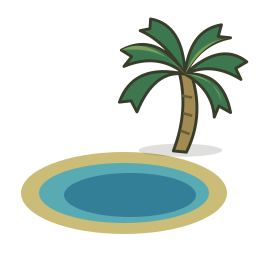
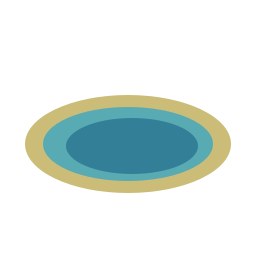
Clarify vegetation states and record cartographic validation

diff --git a/Assets/_Anthropocene/Scripts/Runtime/Presentation/OpeningGame.cs b/Assets/_Anthropocene/Scripts/Runtime/Presentation/OpeningGame.cs
@@ -470,7 +470,7 @@ namespace Anthropocene.Presentation
             Fill(r, new Color(.12f, .14f, .12f));
             GUI.Label(new Rect(r.x + 20, r.y + 15, width - 40, 38), "READING THE LAND", title);
             string helpText =
-                "Tent: camp (gold yours, red rival). Spear: hunters.\nHoofed silhouette: wild herd; tether badge: domestic herd.\nGround shows climate; grass, shrubs and trees show vegetation density.\nMerged contours: elevation 1-10; shared edges at equal height disappear; X Impassable peak; o Oasis; w Freshwater\nRivers follow tile edges. Sea tiles contain undrinkable saltwater.\n\nDots beneath symbols show food from Depleted (one) to Abundant (five). Select a tile for food, water and renewal bands.\n\nClick a unit slot or roster entry to select that exact unit. The selected slot has a gold frame. M or right-click enters movement planning: green tiles are valid this generation, a thick line previews the route, and red means the pointed tile is unavailable. Established hunter groups automatically hunt any wild herd sharing their final tile; fishing targets are blue.\n\nEach unit can queue one order. A new order for that unit replaces its previous order; Backspace or the Cancel button removes it. Gold paths and Q badges are committed previews. Enter resolves every queued order simultaneously. Units without orders hold position; camp gathering is automatic.\n\nD dispatches hunters. A dispatched group appears at camp after resolution and can first receive orders next generation. R reintegrates hunters already at their source camp. Escape leaves targeting without changing queued orders.\n\nWheel zooms; middle-drag or arrows pan; C centers camp.\nHunter tethers preview the planned camp connection: green is supplied, amber crosses unknown terrain, and red will be disconnected. Hunters outside supply forage locally for subsistence before consuming carried provisions. Return to deposit surplus food. V switches tilesets. Hold still on a visible tile for two seconds for details. Saltwater is undrinkable. Wild herd labels are estimates: fewer than 10, rounded tens (~40), then broad hundreds (100+). Your own livestock counts are exact.";
+                "Tent: camp (gold yours, red rival). Spear: hunters.\nHoofed silhouette: wild herd; tether badge: domestic herd.\nGround shows climate. Vegetation: Low = no trees; Medium = one tree; High = three trees.\nVegetation detail is hidden at distant zoom.\nMerged contours: elevation 1-10; shared edges at equal height disappear; X Impassable peak; o Oasis; w Freshwater\nRivers follow tile edges. Sea tiles contain undrinkable saltwater.\n\nDots beneath symbols show food from Depleted (one) to Abundant (five). Select a tile for food, water and renewal bands.\n\nClick a unit slot or roster entry to select that exact unit. The selected slot has a gold frame. M or right-click enters movement planning: green tiles are valid this generation, a thick line previews the route, and red means the pointed tile is unavailable. Established hunter groups automatically hunt any wild herd sharing their final tile; fishing targets are blue.\n\nEach unit can queue one order. A new order for that unit replaces its previous order; Backspace or the Cancel button removes it. Gold paths and Q badges are committed previews. Enter resolves every queued order simultaneously. Units without orders hold position; camp gathering is automatic.\n\nD dispatches hunters. A dispatched group appears at camp after resolution and can first receive orders next generation. R reintegrates hunters already at their source camp. Escape leaves targeting without changing queued orders.\n\nWheel zooms; middle-drag or arrows pan; C centers camp.\nHunter tethers preview the planned camp connection: green is supplied, amber crosses unknown terrain, and red will be disconnected. Hunters outside supply forage locally for subsistence before consuming carried provisions. Return to deposit surplus food. V switches tilesets. Hold still on a visible tile for two seconds for details. Saltwater is undrinkable. Wild herd labels are estimates: fewer than 10, rounded tens (~40), then broad hundreds (100+). Your own livestock counts are exact.";
             float contentHeight = text.CalcHeight(new GUIContent(helpText), width - 62);
             helpScroll = GUI.BeginScrollView(new Rect(r.x + 20, r.y + 62, width - 40, r.height - 120), helpScroll, new Rect(0, 0, width - 62, contentHeight));
             GUI.Label(new Rect(0, 0, width - 62, contentHeight), helpText, text);

diff --git a/Assets/_Anthropocene/Scripts/Runtime/Presentation/Tilesets.cs b/Assets/_Anthropocene/Scripts/Runtime/Presentation/Tilesets.cs
@@ -127,18 +127,22 @@ namespace Anthropocene.Presentation
         public static string BaseKey(TileObservation tile) => tile == null ? "hidden" : "terrain." +
             (tile.Land && (tile.Relief == Relief.Highland || tile.Relief == Relief.Mountain) ? "highland" : tile.Environment == EnvironmentKind.Ice ? "cold" : tile.Environment.ToString().ToLowerInvariant());
         public static int VegetationCount(TileObservation tile, float height) => !tile.Land || tile.Environment == EnvironmentKind.Ice || height < 42 ? 0 :
-            height < 75 ? (int)tile.CurrentVegetation + 1 : tile.CurrentVegetation == VegetationTier.High ? 7 : tile.CurrentVegetation == VegetationTier.Medium ? 4 : 3;
+            tile.CurrentVegetation == VegetationTier.Medium ? 1 : 3;
         public static string VegetationKey(TileObservation tile) => "vegetation." +
-            (tile.Environment == EnvironmentKind.Desert ? "shrub" : tile.CurrentVegetation == VegetationTier.Low || tile.Environment == EnvironmentKind.Grassland ? "grass" : tile.Environment == EnvironmentKind.Cold ? "conifer" : tile.Environment == EnvironmentKind.Tropical ? "tropical_tree" : "temperate_tree");
-        private static readonly Vector2[] VegetationSlots = { new Vector2(.28f, .29f), new Vector2(.72f, .37f), new Vector2(.37f, .65f), new Vector2(.66f, .65f), new Vector2(.50f, .23f), new Vector2(.24f, .52f), new Vector2(.53f, .48f) };
+            (tile.CurrentVegetation == VegetationTier.Low ? tile.Environment == EnvironmentKind.Desert ? "shrub" : "grass" :
+                tile.Environment == EnvironmentKind.Cold ? "conifer" : tile.Environment == EnvironmentKind.Tropical || tile.Environment == EnvironmentKind.Desert ? "tropical_tree" : "temperate_tree");
+        private static readonly Vector2[] VegetationSlots = { new Vector2(.28f, .29f), new Vector2(.72f, .37f), new Vector2(.37f, .65f) };
+        private static readonly Vector2[] OccupiedVegetationSlots = { new Vector2(.5f, .16f), new Vector2(.105f, .54f), new Vector2(.895f, .54f) };
         private void VegetationLayer(TileObservation tile, Rect rect, bool occupied)
         {
             int count = VegetationCount(tile, rect.height); string motif = VegetationKey(tile);
+            // Low has only ground cover; Medium/High have exactly one/three trees.
             // Deterministic interior slots leave contour/river edges and occupant hit regions intact.
             for (int i = 0; i < count; i++)
             {
-                float x = VegetationSlots[i].x + ((tile.Id * 17 + i * 7) % 5 - 2) * .012f, y = VegetationSlots[i].y;
-                float size = rect.height * (occupied ? .23f : .34f);
+                var position = occupied ? OccupiedVegetationSlots[i] : VegetationSlots[i];
+                float x = position.x + (occupied ? 0 : ((tile.Id * 17 + i * 7) % 5 - 2) * .012f), y = position.y;
+                float size = rect.height * (occupied ? .20f : .34f);
                 Symbol(motif, new Rect(rect.x + rect.width * x - size / 2, rect.y + rect.height * y - size / 2, size, size));
             }
         }

diff --git a/Assets/_Anthropocene/Tests/EditMode/LayeredMapTests.cs b/Assets/_Anthropocene/Tests/EditMode/LayeredMapTests.cs
@@ -68,7 +68,22 @@ namespace Anthropocene.Tests.EditMode
             t.CurrentVegetation = VegetationTier.High; var dense = Observe();
             Assert.That(LayeredTileRenderer.BaseKey(sparse), Is.EqualTo(ground));
             Assert.That(LayeredTileRenderer.BaseKey(dense), Is.EqualTo(ground));
-            Assert.That(LayeredTileRenderer.VegetationCount(sparse, 80), Is.LessThan(LayeredTileRenderer.VegetationCount(dense, 80)));
+            Assert.That(LayeredTileRenderer.VegetationKey(sparse), Is.EqualTo("vegetation.grass"));
+            foreach (var environment in new[] { EnvironmentKind.Desert, EnvironmentKind.Grassland, EnvironmentKind.Temperate, EnvironmentKind.Tropical, EnvironmentKind.Cold })
+            {
+                t.Environment = environment;
+                foreach (float height in new[] { 42f, 64f, 80f, 112f })
+                {
+                    t.CurrentVegetation = VegetationTier.Low;
+                    Assert.That(LayeredTileRenderer.VegetationKey(Observe()), Is.EqualTo(environment == EnvironmentKind.Desert ? "vegetation.shrub" : "vegetation.grass"), "Low cover must contain no trees.");
+                    foreach (var tier in new[] { VegetationTier.Medium, VegetationTier.High })
+                    {
+                        t.CurrentVegetation = tier;
+                        Assert.That(new[] { "vegetation.temperate_tree", "vegetation.tropical_tree", "vegetation.conifer" }.Contains(LayeredTileRenderer.VegetationKey(Observe())), Is.True);
+                        Assert.That(LayeredTileRenderer.VegetationCount(Observe(), height), Is.EqualTo(tier == VegetationTier.Medium ? 1 : 3), "Tree counts must not change between detail zoom levels.");
+                    }
+                }
+            }
             Assert.That(LayeredTileRenderer.VegetationCount(dense, 30), Is.Zero);
             Assert.That(LayeredTileRenderer.ContourCount(8, 30), Is.GreaterThan(0));
             t.Environment = EnvironmentKind.Cold; Assert.That(LayeredTileRenderer.VegetationKey(Observe()), Is.EqualTo("vegetation.conifer"));

diff --git a/Assets/_Anthropocene/Scripts/Runtime/Presentation/OpeningArtReview.cs b/Assets/_Anthropocene/Scripts/Runtime/Presentation/OpeningArtReview.cs
@@ -56,7 +56,7 @@ namespace Anthropocene.Presentation
             Draw(2,0,"Temperate",EnvironmentKind.Temperate,VegetationTier.Medium); Draw(3,0,"Tropical",EnvironmentKind.Tropical,VegetationTier.High);
             Draw(4,0,"Cold",EnvironmentKind.Cold,VegetationTier.Medium); Draw(5,0,"Highland",EnvironmentKind.Grassland,VegetationTier.Low,8);
             Draw(6,0,"Ocean",EnvironmentKind.Ocean); Draw(7,0,"Shallows / shore",EnvironmentKind.Shallows); Draw(8,0,"Freshwater lake",EnvironmentKind.Lake);
-            Draw(0,1,"Low cover",EnvironmentKind.Temperate); Draw(1,1,"Medium cover",EnvironmentKind.Temperate,VegetationTier.Medium); Draw(2,1,"High cover",EnvironmentKind.Temperate,VegetationTier.High);
+            Draw(0,1,"Low / no trees",EnvironmentKind.Temperate); Draw(1,1,"Medium / 1 tree",EnvironmentKind.Temperate,VegetationTier.Medium); Draw(2,1,"High / 3 trees",EnvironmentKind.Temperate,VegetationTier.High);
             Draw(3,1,"Selected camp",EnvironmentKind.Grassland,VegetationTier.Low,2,112,"entity.camp");
             Draw(4,1,"Foreign camp ◇",EnvironmentKind.Grassland,VegetationTier.Low,2,112,"entity.rivalcamp");
             Draw(5,1,"Hunters",EnvironmentKind.Grassland,VegetationTier.Low,2,112,"entity.hunter");

diff --git a/Assets/_Anthropocene/Scripts/Runtime/Presentation/OpeningSmoke.cs b/Assets/_Anthropocene/Scripts/Runtime/Presentation/OpeningSmoke.cs
@@ -16,6 +16,7 @@ namespace Anthropocene.Presentation
         {
             var args = System.Environment.GetCommandLineArgs(); int option = Array.IndexOf(args, "--anthropocene-smoke-output");
             if (option < 0 || option + 1 >= args.Length) yield break;
+            Application.runInBackground = true; // This opt-in capture run must survive focus returning to the review window.
             string output = Path.GetFullPath(args[option + 1]); Directory.CreateDirectory(output);
             NewGame(); while (generating != null) yield return null;
             if (world == null) throw new InvalidOperationException("Smoke world did not generate.");

diff --git a/AGENTS.md b/AGENTS.md
@@ -15,7 +15,7 @@ The default player turn is twenty years, resolved through seasonal economic inte
 - `Assets/_Anthropocene/Scripts/Runtime/Core/GameBootstrap.cs`: creates the persistent game root and opening UI.
 - `Assets/_Anthropocene/Resources/OpeningConfig.json`: simulation tuning. Keep serialized values and `SimulationConfig` defaults consistent when changing defaults.
 - `Assets/_Anthropocene/Resources/Tilesets/`: classic and high-contrast semantic symbol definitions with glyph fallbacks. Both must convey the same gameplay information.
-- `Assets/_Anthropocene/Resources/MapArt/`: 23 original sprites; preserve GUIDs and the semantic layers. `Tools/Art/Build-SymbolicAssets.cjs` recreates them; provenance is in `Docs/ArtProvenance.md`.
+- `Assets/_Anthropocene/Resources/MapArt/`: 29 original cartographic sprites; preserve GUIDs, alpha and semantic layers. `Tools/Art/Build-SymbolicAssets.cjs` recreates PNGs and SVG exports in `Tools/Art/Sources`; provenance and the approved visual target are in `Docs/ArtProvenance.md`. Judge art in the actual Unity render, not only a source contact sheet. Never add opaque occupant backplates or flatten coloured sprites with glyph tint.
 - `Assets/_Anthropocene/Editor/PrototypeBuild.cs`: Windows development build entry point.
 - `Tools/Headless/`: console checks and benchmarks compiling the actual simulation source files, not a duplicate implementation.
 - `Assets/_Anthropocene/Tests/EditMode/`: Unity/NUnit integration and presentation checks.
@@ -31,6 +31,7 @@ The default player turn is twenty years, resolved through seasonal economic inte
 - Human growth depends on recurring food surplus and reserves, with rising consumption, fractional progress and separately recorded deaths. Do not introduce an arbitrary human population cap. Maintain population and food conservation and the persisted demographic explanation.
 - Passive coastal gathering uses adjacent Shallows and shares the camp's land-gathering labor. Ocean is excluded and marine food never supplies freshwater. Remote hunters retain finite carried provisions and respect traversable supply paths.
 - Keep ground, merged elevation contours, water, vegetation, land-use, settlements, food markers and occupants independently legible. Equal elevation buckets suppress their shared contour edges; unknown neighbors must not leak elevation. Stacked units use stable slots shared by rendering and hit testing; sprite bounds must stay within those slots; overflow remains accessible in the inspector. Delayed hover must reset with navigation, use visible information only and never intercept input.
+- Vegetation detail must show no trees for Low (grass/brush only), exactly one tree for Medium and three for High across land climates. Preserve those counts at all detail zooms; omit vegetation at distant zoom. Decorative feature art must not add trees that confuse this state indicator.
 - Independent AI/herd intentions and active ecology may use bounded parallel workers; compare against the scalar reference with varied partitions/order. Commit IDs, collisions, entity changes and history canonically. Runtime worker settings and timings must not enter authoritative state.
 - Generation, turn resolution and save/load use workers. Do not read or mutate partially resolved world state from the UI; preserve the busy/progress guards.
 - Save/load must restore authoritative geography and history without regeneration. The current signature is `ANTHROPOCENE-7`, filename `opening-v6.anthro`, world/config/generator versions are 6, and observation schema is 7. This prototype revision intentionally rejects earlier formats that lack explicit ownership/progression and latent renewable-ecology state. Sparse pressure/balance diagnostics are transient; saved history retains outcome receipts and authoritative continuation state. If a later change breaks compatibility, explicitly version it or implement a migration and test rejection/round-trip behavior. Preserve older user save files.
@@ -66,7 +67,7 @@ This workstation's authoritative checkout is `C:\Users\suyas\Documents\ChatGPT\A
 
 GitHub authentication on this workstation is intentionally file-backed because Windows Credential Manager and the Schannel transport proved unreliable. Git uses the OpenSSL transport. Never print credentials, paste tokens into prompts, or commit them. Confirm unattended access with `gh auth status` and a normal fetch or push; if Git opens a credential GUI, stop and repair the CLI configuration instead of continuing through the dialog.
 
-The script finds the local or Unity-bundled .NET SDK, then falls back to `dotnet` on PATH. Run checks appropriate to the change: focused simulation checks for mechanics, the broader suites for generation/determinism/performance changes, and Unity EditMode tests for engine integration or presentation changes. Do not repeat unchanged expensive suites without a reason. The recorded baseline is 221 fixed headless assertions plus seeded/audit checks, scalar-versus-2/4-worker replay across ten resolutions, and 17 Unity tests; counts can legitimately increase. `Docs/Performance.md` records the 80/320 results. Do not expose 320 tribes as a public preset before profiling and compacting dense tile/season memory; the measured single-world heap is about 852 MiB after generation.
+The script finds the local or Unity-bundled .NET SDK, then falls back to `dotnet` on PATH. Run checks appropriate to the change: focused simulation checks for mechanics, the broader suites for generation/determinism/performance changes, and Unity EditMode tests for engine integration or presentation changes. Do not repeat unchanged expensive suites without a reason. The recorded baseline is 221 fixed headless assertions plus seeded/audit checks, scalar-versus-2/4-worker replay across ten resolutions, and 18 Unity tests; counts can legitimately increase. `Docs/Performance.md` records the 80/320 results. Do not expose 320 tribes as a public preset before profiling and compacting dense tile/season memory; the measured single-world heap is about 852 MiB after generation.
 
 Run EditMode tests in Unity's Test Runner. For batch runs, use the Unity executable with `-batchmode -nographics -projectPath <absolute-root> -runTests -testPlatform EditMode -testResults <absolute-xml-path> -logFile <absolute-log-path>`; let the test runner exit rather than adding `-quit`. Create the output directory first and inspect the XML result, not just the process exit code. Launch background batch processes hidden on Windows.
 
@@ -78,7 +79,7 @@ Build through **Anthropocene > Build Windows prototype**, or use `-batchmode -no
 
 Choose **Standard / Continents / seed 1729 / 32 tribes**. The opening view shows 24 people, one complete starting-generation reserve and a four-generation desert storage ceiling. Dispatch eight people and commit: turn two shows 28 people and the camp/hunter stack. Move the hunters two tiles east and commit: turn three shows 36 people. Planning another two-tile eastward move draws a red camp tether and a matching disconnection warning; the group will forage locally and use carried provisions after committing. This is a normal deterministic play sequence, not a special seed rule or edited save.
 
-Use V to compare tilesets, the wheel to zoom, arrows to pan and C to center the camp. Check exact slot selection, vegetation/detail reduction with zoom, hover after more than two stationary seconds, coastal saltwater/food information, and save/load restoration. The development-player argument `--anthropocene-smoke-output <absolute-directory>` runs an automated version of the demo and captures frames using a separate save in that output directory; it is not a substitute for a human interaction/usability playtest. Preserve any existing user save when setting up a new demonstration.
+Use V to compare tilesets, the wheel to zoom, arrows to pan and C to center the camp. Check exact slot selection, vegetation/detail reduction with zoom, hover after more than two stationary seconds, coastal saltwater/food information, and save/load restoration. The development-player argument `--anthropocene-smoke-output <absolute-directory>` runs an automated version of the demo and captures frames using a separate save in that output directory; it is not a substitute for a human interaction/usability playtest. The visual check needs a visible game window on this workstation; hidden players cannot capture the backbuffer. It also captures clearly labelled synthetic art fixtures through the production renderer. Run `Tools/Art/Check-PlayerArt.cjs` with Node, the Sharp package directory, and the capture directory to verify the selected-camp transparency probes and complete capture set. Preserve any existing user save when setting up a new demonstration.
 
 ## Follow-on workflow
 

diff --git a/Docs/Validation.md b/Docs/Validation.md
@@ -12,7 +12,7 @@ Current mechanics: [EcologyFoundation.md](EcologyFoundation.md). Windows x64, Un
 - Multiple local camps can share one society's tradition while retaining separate stores/populations. Workforce assignment/reassignment/release, proportional named-role casualties, owned improvements, optional transition rewards and elapsed-time era gates pass. Mastery remains available before 200 years; ten-year turns do not trigger premature turn-number gates. Starvation still has two player turns of grace.
 - Human and AI legal actions share a validator. Serializable masks/observations preserve exact own and estimated foreign/wild information. Hidden tiles, foreign private state, rival orders and changes within the same herd-count band cannot change the contract. Relabeling player identity cannot change policy choices. Existing continuity/depletion checks cover relocation inertia.
 - Growth, food reports (including remote forage), finite expedition provisions, passive coastal gathering and source freshwater conservation remain covered. All seeded runs retain population/food/workforce conservation and zero illegal AI orders.
-- **17/17 Unity EditMode tests passed**, zero failures/skips, in **7.04 seconds**. These include actual config/save integration, contour boundaries/fog, stack hit slots, hover layout/timing, planning/supply previews, all 23 sprite imports at 256 x 256, both semantic contrast sets/glyph fallbacks, vegetation/relief separation, and sprite containment within hit slots at multiple zooms.
+- **18/18 Unity EditMode tests passed**, zero failures/skips, in **6.60 seconds**, after the cartographic art revision. These include actual config/save integration, contour boundaries/fog, stack hit slots, hover layout/timing, planning/supply previews, all 29 sprite imports at 256 x 256 with zoom filtering, distinct prey silhouettes, preserved sprite colour, both semantic contrast sets/glyph fallbacks, vegetation/relief separation, and sprite containment within hit slots at multiple zooms.
 
 The first Unity attempt exposed a missing Screen Capture module in the optional player-validation harness. The bundled module and its image-conversion dependency were added; subsequent tests and builds passed. The final source-text changes were also compiled by the final Windows build.
 
@@ -58,9 +58,19 @@ The final Windows development build reported **Build Finished, Result: Success**
 
 Captured frames were inspected: the opening shows 24 people and one generation of reserves; the dispatch resolves to 28 people, with camp and hunter in distinct selectable slots. The next eastward move resolves to 36 people. A further legal two-tile move displays the red supply tether and matching sidebar warning. Sprites now remain inside their click slots; distant zoom removes vegetation/food detail while keeping units and elevation boundaries. Terrain, vegetation, approximate herd badge and actor identity remain separate. Save/load preserves the authoritative fingerprint and restores turn three with 36 people; pending previews are cleared.
 
-This is automated player execution plus visual inspection of captured frames, **not a manual mouse/keyboard usability playtest**. Hover behavior, slot geometry and hidden-information limits are covered by automated checks; this run did not physically exercise every input device or all possible map/vegetation combinations. The original code-native art follows the written symbolic style contract; the proposal's embedded image was not retrievable, as recorded in [ArtProvenance.md](ArtProvenance.md).
+This is automated player execution plus visual inspection of captured frames, **not a manual mouse/keyboard usability playtest**. Hover behavior, slot geometry and hidden-information limits are covered by automated checks; this run did not physically exercise every input device or all possible map/vegetation combinations. The earlier art was rejected by the user: it followed the written style description without matching the embedded image, and its opaque occupant panels obscured terrain. The image was subsequently recovered and the artwork/rendering revised, as recorded in [ArtProvenance.md](ArtProvenance.md). Technical checks alone do not establish the user's acceptance of the art.
 
 Local evidence lives in ignored `TestResults`: `EcologyFocusedFinal.txt`, `EcologyFinalHeadless.txt`, `EcologyStandard32.txt`, `EcologyElevationAudit.txt`, `EcologyUnity/final-results.xml`, `EcologyBuildFinal.log`, and the `EcologyPlayerFinal` captures/result/log. Generated builds, screenshots, logs and saves are deliberately not committed.
+
+### Cartographic art revision, September 13
+
+The final art build succeeded and the visible Windows player completed the same Standard / Continents / 1729 / 32-tribe demo, retaining turn-three population 36 and an identical save/load fingerprint. All nine requested captures exist. The source exporter verified 20 transparent overlays among 29 sprites; all 23 existing asset GUIDs were preserved. The production-render pixel check passed all six map-space probes and confirmed 2,431 changed pixels where the selected camp was actually drawn.
+
+The final captures were visually inspected at 1600 × 1000: warm terrain, separate sparse desert brush, distinct prey silhouettes, tent/spear stacking, open selection corners, freshwater icons, food marks, known shores, merged contours and both contrast sets are visible. The illustrative gallery uses the normal 112-pixel tile height, includes low/medium/high vegetation, a six-occupant stack and a 40-pixel distant tile. The last zoom simplifies small actors to outlined glyphs. Gallery tiles are explicitly synthetic; gameplay screenshots retain the player's actual fog and observations. No simulation or tuning source changed, so the unchanged expensive ecology and scale benchmarks were not rerun.
+
+Final evidence is `CartographicUnity/final-results.xml` (18/18, 6.60 s), `CartographicBuildFinal.log`, and `CartographicPlayerFinal` in ignored `TestResults`. Run `Tools/Art/Check-PlayerArt.cjs` with Node, the Sharp directory and that player-output directory to reproduce the PNG checks. Hidden-window capture attempts failed on this workstation; the smoke helper now refuses to report success if screenshots are absent. A visible player window produced the validated set. This remains automated gameplay with visual inspection, not a manual usability playtest or a claim of user approval of the style.
+
+The vegetation-readability follow-up implements the user's 0/1/3 tree convention: Low keeps grass/brush without trees, Medium shows one tree and High three. The oasis marker no longer contains a decorative palm. All **18 Unity EditMode checks passed in 7.36 s**, including the tree-count and motif assertions for desert, grassland, temperate, tropical and cold land at tile heights 42, 64, 80 and 112. The rebuilt player's gallery was visually inspected: reserved top/side placements keep the three trees visible even around six occupants. All nine captures, six transparency probes and the Standard demo/save round trip passed, ending at turn three with 36 people. The opt-in screenshot run now continues when its visible window loses focus; normal game focus behaviour is unchanged. Evidence is under ignored `TestResults/VegetationReadability`: `tests.xml`, `build-verified.log` and `PlayerVerified`.
 
 ## Reproduce
 

diff --git a/Docs/EcologyFoundation.md b/Docs/EcologyFoundation.md
@@ -4,6 +4,8 @@ This replaces Milestone 3 ecology and ownership rules. The reconciled [Drive pla
 
 Environment, vegetation and relief are separate. Seasonal resources are generated after soil, environment and oasis placement. Natural vegetation is a generated target; current vegetation follows configurable condition hysteresis.
 
+The map represents current vegetation as no trees for Low (grass/brush only), one tree for Medium and three for High. This is a presentation convention; it does not change ecological tiers or resource calculations. Tree counts remain fixed while vegetation detail is visible, then disappear at distant zoom.
+
 Food is the human-accessible subset G of total edible biomass B. The resolver integrates G and non-gatherable B-G in ordered seasonal segments. Generated profiles give both components the same renewal rate, so their sum follows dB/dt = g(K-B)-H. Humans have first claim on G; herds consume B-G before spilling into G. Freshwater is a separate finite stock. Depletion uses an analytic zero crossing and ongoing recharge; unmet requests are recorded. Capacity loss at seasonal boundaries is accounted for as overflow.
 
 SeasonData recovery fields are per-day rates. Legacy configuration fractions (FoodRegeneration, WaterRecovery and oasis equivalents) are converted exactly once while generating profiles: -ln(1-f)/BaseDays. They remain migration inputs, not per-turn multipliers. ConditionRecoveryPerYear exactly preserves the old six-percent recovery over twenty years, before potential-based low/high modifiers. SafeUseRatio and SustainableProductionFraction are dimensionless; use damage is annual. Realized extraction is compared with a conservative fraction of renewable flow. Drinking has zero condition damage. Failed requests have zero damage. Pressure entries carry source, category, requested/realized/unmet flows, capacity exposure, recharge and integrated damage contribution; tile balances reconcile all three pools. These are transient diagnostics retained for the latest resolved turn. Saved history preserves transfer receipts, condition changes, logistics and demographic explanations; it does not serialize the transient ledger or numerical-balance scratch records. This keeps large-world saves bounded without losing continuation state.
@@ -23,7 +25,7 @@ Validation evidence is recorded in [Validation.md](Validation.md); [Configuratio
 PhaseExecution provides a scalar reference and optional bounded parallel workers. AI/herd intent phases read a planning index; ecological workers read materialized tile inputs and return local results. Sequential simulation barriers commit in tile/entity order on the resolution worker. Movement collisions, ID allocation and history remain canonical. Worker counts, partition order and timings are not saved state. Current desktop execution uses at most four workers and avoids parallel dispatch below 64 items.
 
 
-The map uses nine broad ground/water families with separate climate-specific vegetation motifs, land-use hooks, settlement overlays and unit icons. Rivers and merged elevation contours remain procedural. Both contrast sets retain glyph fallbacks and the same semantic keys. Zoom removes vegetation and land-use detail before occupants/contours; actor artwork stays inside the exact selectable slots. [ArtProvenance.md](ArtProvenance.md) records the original 23-sprite set and the limits of access to the proposal's embedded visual reference.
+The map uses nine broad ground/water families with separate climate-specific vegetation motifs, land-use hooks, settlement overlays and distinct unit/species icons. Rivers and merged elevation contours remain procedural; shorelines use observed neighbours only. Both contrast sets retain glyph fallbacks and the same semantic keys. Zoom removes vegetation and land-use detail before occupants/contours; actor artwork stays inside the exact selectable slots, with transparent negative space and open selection corners. [ArtProvenance.md](ArtProvenance.md) records the 29-sprite cartographic set and its relationship to the recovered visual reference.
 
 Paleolithic claims retain radius-one gathering, finite stores, passive adjacent Shallows, one strategic relocation and food-limited population growth. The default starting population is 24 with one complete generation's reserve; there is no human population cap. First-generation dispatch creates an eight-person group in the documented demo; it becomes active in the following planning phase. Owned people and livestock are exact; wild/foreign herd counts remain estimated.
 

diff --git a/Docs/ArtProvenance.md b/Docs/ArtProvenance.md
@@ -6,7 +6,7 @@ The visual target is the user's **Option C — Minimalist & Iconic (with Elevati
 
 The replacement uses warm earth/blue water colours, outlined and shaded illustrations, genuine alpha, and independent semantic layers. The set contains nine ground families, five vegetation motifs, three land-use overlays, two settlement hooks, camp/hunter icons, five distinct wild-species silhouettes, one marked livestock icon and two freshwater/oasis icons. The antelope uses `unit_herd_wild` for filename compatibility. These are original interpretations of the supplied reference, not extracted pieces of its illustrated sheet. They keep gameplay geography authoritative: no baked forests, guessed shorelines, artificial rivers or copied elevation from the concept.
 
-Density comes from deterministic motif placement. At normal zoom low/medium/high cover uses three/four/seven motifs; occupied tiles use smaller motifs and distant zoom drops them before actor/contour identity. Rivers and exact elevation boundaries remain procedural. Shore edges are drawn only against observed land neighbours. High cultivation and village assets remain extension hooks. A mobile camp is drawn once, in its selectable occupant slot.
+Vegetation state uses the user's explicit tree-count convention: **Low has no trees, Medium has one tree, High has three trees**. Low retains small grass/brush tufts. Medium/high use broadleaf trees on grassland/temperate land, palms on desert/tropical land and conifers on cold land. These counts stay fixed at every vegetation-visible zoom (tile height at least 42 pixels); distant zoom omits vegetation, and water/ice have none. Occupied tiles use smaller motifs in reserved top/side positions so unit stacks do not conceal the tree count. The oasis marker is a pool without a decorative palm, so it cannot add a misleading tree to the count. Rivers and exact elevation boundaries remain procedural. Shore edges are drawn only against observed land neighbours. High cultivation and village assets remain extension hooks. A mobile camp is drawn once, in its selectable occupant slot.
 
 Both semantic tilesets use the same illustrations and retain glyph fallbacks. `SpriteTint` is independent of glyph `Tint`, preserving the artwork's palette; foreign camps/hunters also have a warm tint and diamond marker. High contrast uses darker ground, stronger contour lines and white selection corners. Selections use open corner marks, never filled slot rectangles. Count labels have a narrow text outline; food and freshwater badges occupy separate areas. The importer uses single sprites, alpha, trilinear filtering with mipmaps for zoom reduction, clamp wrapping and no compression. Contour/selection strokes have feathered edges. Preserve existing GUIDs when replacing art.
 

diff --git a/Docs/Implementation.md b/Docs/Implementation.md
@@ -48,7 +48,7 @@ The 320-tribe configuration is benchmark-only. Dense Tile/SeasonData storage sti
 
 ## Presentation and persistence
 
-`OpeningGame` owns the Unity immediate-mode menu, planning controls and worker busy guards. The renderer draws only the camera region: ground -> elevation contours -> water -> vegetation -> land use -> settlement -> occupants -> UI feedback. It uses the 23 original symbolic sprites with semantic glyph fallbacks, two contrast sets and zoom-dependent detail. Rendering and hit testing share stable occupant slots. Delayed hover uses filtered information, resets with navigation and never takes input.
+`OpeningGame` owns the Unity immediate-mode menu, planning controls and worker busy guards. The renderer draws only the camera region: ground -> elevation contours -> water edges -> vegetation -> land use -> occupants -> resource/water badges and UI feedback. It uses 29 original cartographic sprites with semantic glyph fallbacks, two contrast sets and zoom-dependent detail. Sprite colour is separate from fallback glyph tint. Rendering and hit testing share stable occupant slots; selections use open corner marks and have no opaque backing panels. Shorelines use observed neighbour land only. Delayed hover uses filtered information, resets with navigation and never takes input.
 
 Generation, resolution/AI planning and save/load run on workers. The UI shows an operation/progress screen and does not inspect partially resolved state. `SaveCodec` stores authoritative binary geography and versioned metadata in buffered gzip; loading never regenerates geography. Signature is `ANTHROPOCENE-7`, world/config/generator version 6, filename `opening-v6.anthro`; earlier formats are explicitly rejected and earlier filenames preserved. Pending orders and transient numerical diagnostics are excluded. Stored latent ecology, society/workforce state, IDs, configuration and deterministic outcome history are sufficient for continuation.
 
